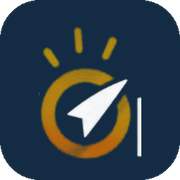
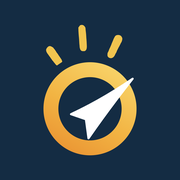
Scharfes Vorschaubild für geteilte Links, kürzerer Seitentitel

diff --git a/index.html b/index.html
@@ -5,7 +5,14 @@
   <meta name="viewport" content="width=device-width, initial-scale=1">
   <meta name="theme-color" content="#142c43">
   <meta name="description" content="FOKUS Lernzentrum Darmstadt: Nachhilfe für die Klassen 3 bis 13 in Mathematik, Deutsch, Englisch, Französisch und Chemie – online oder vor Ort.">
-  <title>FOKUS Lernzentrum Darmstadt — Nachhilfe Klassen 3–13</title>
+  <title>FOKUS Lernzentrum Darmstadt — Nachhilfe</title>
+  <meta property="og:type" content="website">
+  <meta property="og:title" content="FOKUS Lernzentrum Darmstadt — Nachhilfe">
+  <meta property="og:description" content="Nachhilfe in Mathematik, Deutsch, Englisch, Französisch und Chemie – online oder vor Ort in Darmstadt.">
+  <meta property="og:url" content="https://meldaaksu.github.io/nachhilfe/">
+  <meta property="og:image" content="https://meldaaksu.github.io/nachhilfe/images/og-image.png">
+  <meta property="og:image:width" content="600">
+  <meta property="og:image:height" content="600">
   <link rel="icon" href="images/favicon.png" type="image/png">
   <link rel="apple-touch-icon" href="images/apple-touch-icon.png">
 
